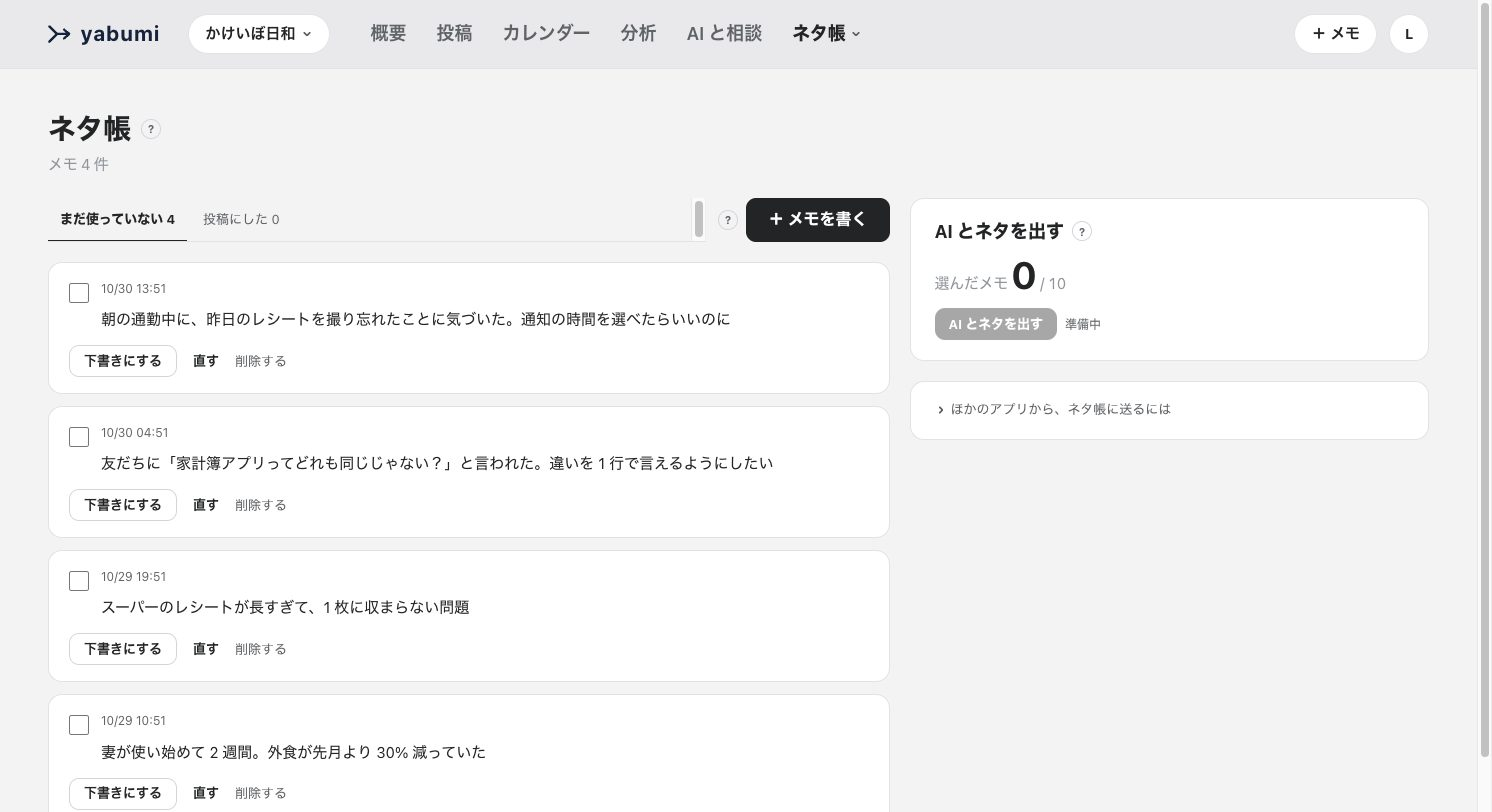
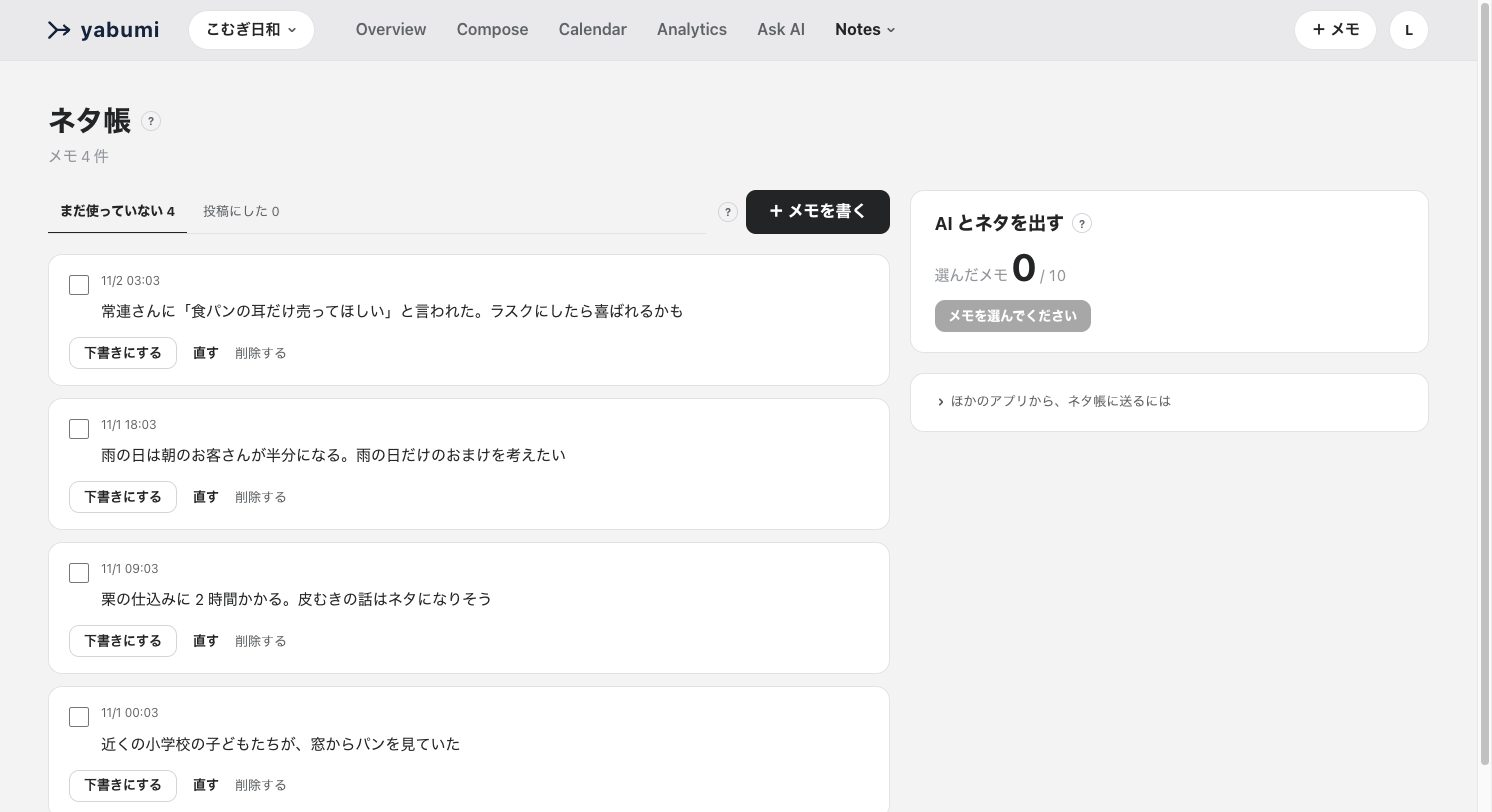
LP の画面の見本を、アプリ以外の例（駅前のパン屋「こむぎ日和」）で撮り直す（D34。PM の依頼）
- scripts/lp-demo.mjs の見本用のデータを、家計簿アプリから駅前のパン屋（product_type shop）に変えた。アカウント設計は product-guide.ts の PLAN_EXAMPLES.shop とそろえ、目的は「来てもらう」。行き先（お店の地図・取り置きのページ）、パンの投稿と予約、ネタ帳、地図へのクリックと手で入れた来店の数（直近 14 日）。ストア・RevenueCat の数字は入れない
- public/lp/*.jpg の 12 枚（概要・投稿をつくる・カレンダー・ネタ帳・分析・アカウント設計 × ライト・ダーク）を、読み込みの骨組みが消えてから撮り直した
- README の撮り方の説明を合わせた。画面の表記は yabumi にそろっている（src に「矢書」なし）

diff --git a/README.md b/README.md
@@ -198,7 +198,7 @@ commit;
 
 トップ（/）の「できること」などに出す画面の見本（public/lp/<名前>-light.jpg・-dark.jpg）は、見本用のアカウントとデータで撮る。オーナーの実データは使わない（docs/architecture.md の 4.29）。
 
-1. `node scripts/lp-demo.mjs seed http://127.0.0.1:3102` で、見本用の利用者 lp-demo@yabumi.test と、架空のアプリ「かけいぼ日和」のデータを作る（ローカルの Supabase だけで動く。何度でも作り直せる）。ログイン用のリンクが出る
+1. `node scripts/lp-demo.mjs seed http://127.0.0.1:3102` で、見本用の利用者 lp-demo@yabumi.test と、架空のパン屋「こむぎ日和」（お店。D34）のデータを作る（ローカルの Supabase だけで動く。何度でも作り直せる）。ログイン用のリンクが出る
 2. `npx next dev -p 3102 -H 127.0.0.1` で開発サーバーを開き、ブラウザで 1 のリンクを開く（127.0.0.1 で開くと、localhost でログインしている自分のアカウントと混ざらない）
 3. 画面の幅 1492・高さ 812 で、概要（coach）・投稿をつくる（compose。本文に文を入れる）・カレンダー（calendar。週）・ネタ帳（notes）・分析（metrics）・アカウント設計（plan）を撮る。左下の Next.js の印は消してから撮る。ライトを撮ったら、アカウントの丸のメニューの「ダーク」で切り替えて同じものを撮る（見本用の利用者は、いまの版の規約に同意したことにしてあるので、同意の帯は出ない）
 4. public/lp/ に `<名前>-light.jpg`・`<名前>-dark.jpg` で置く（1 枚 100KB ほどまで）
